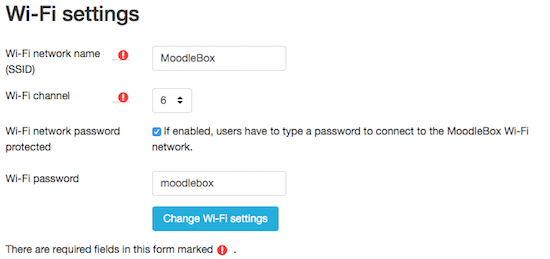
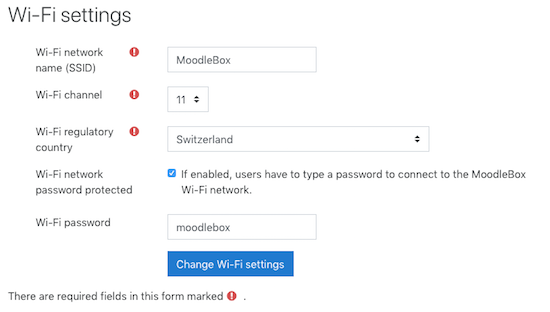
Wi-Fi settings screenshots updated. German version added.

diff --git a/content/de/help/updating-wi-fi-configuration.md b/content/de/help/updating-wi-fi-configuration.md
@@ -15,7 +15,7 @@ categories:
 ---
 Wenn Sie die MoodleBox einschalten, arbeitet die MoodleBox wie ein WLAN-AccessPoint. Als Administrator können Sie zahlreiche WLAN-Einstellungen ändern. Um dies zu tun, gehen Sie in den MoodleBox-Einstellungen auf [Website-Administration > Server > MoodleBox][1].
 
-{{< figure link="/img/media/wifi-settings-en.png" thumb="-small" caption="WLAN-Eistellungen" caption-position="bottom" caption-effect="appear" width="550px" >}}
+{{< figure link="/img/media/wifi-settings-de.png" thumb="-small" caption="WLAN-Eistellungen" caption-position="bottom" caption-effect="appear" width="550px" >}}
 
 ### WLAN-Namen (SSID) ändern
 
